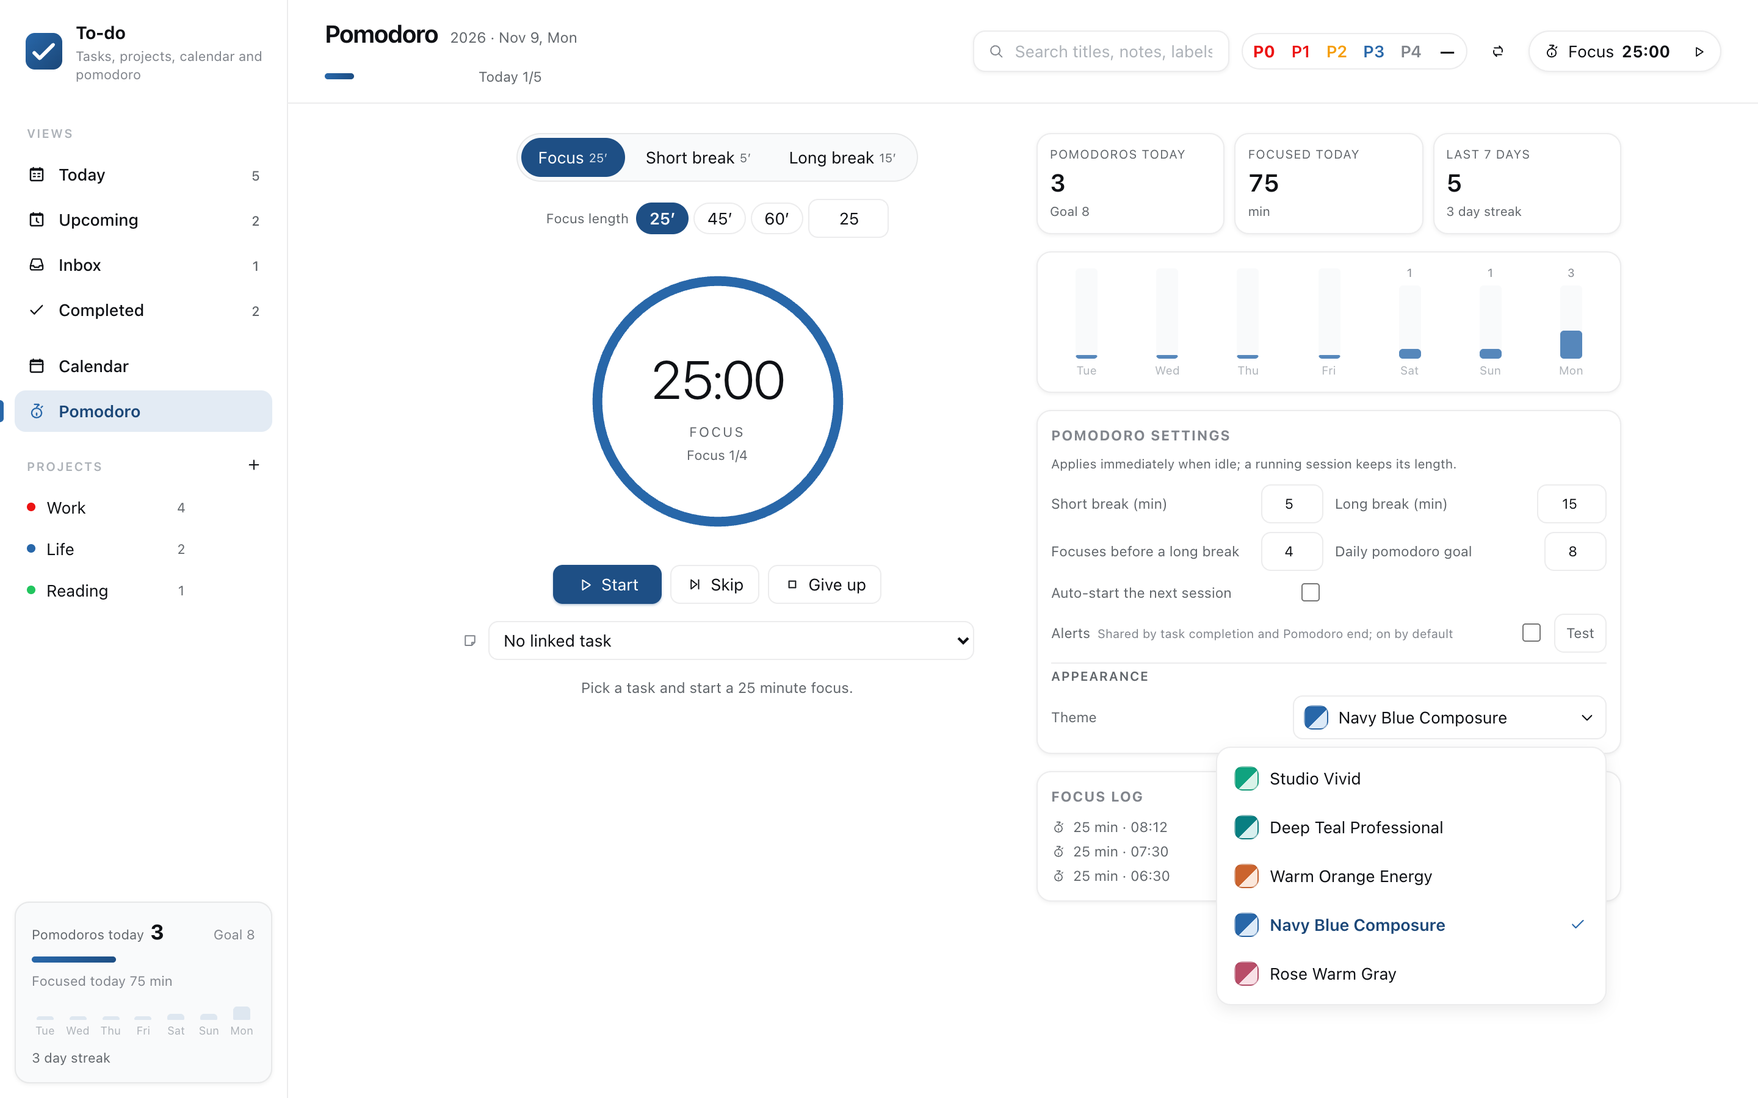
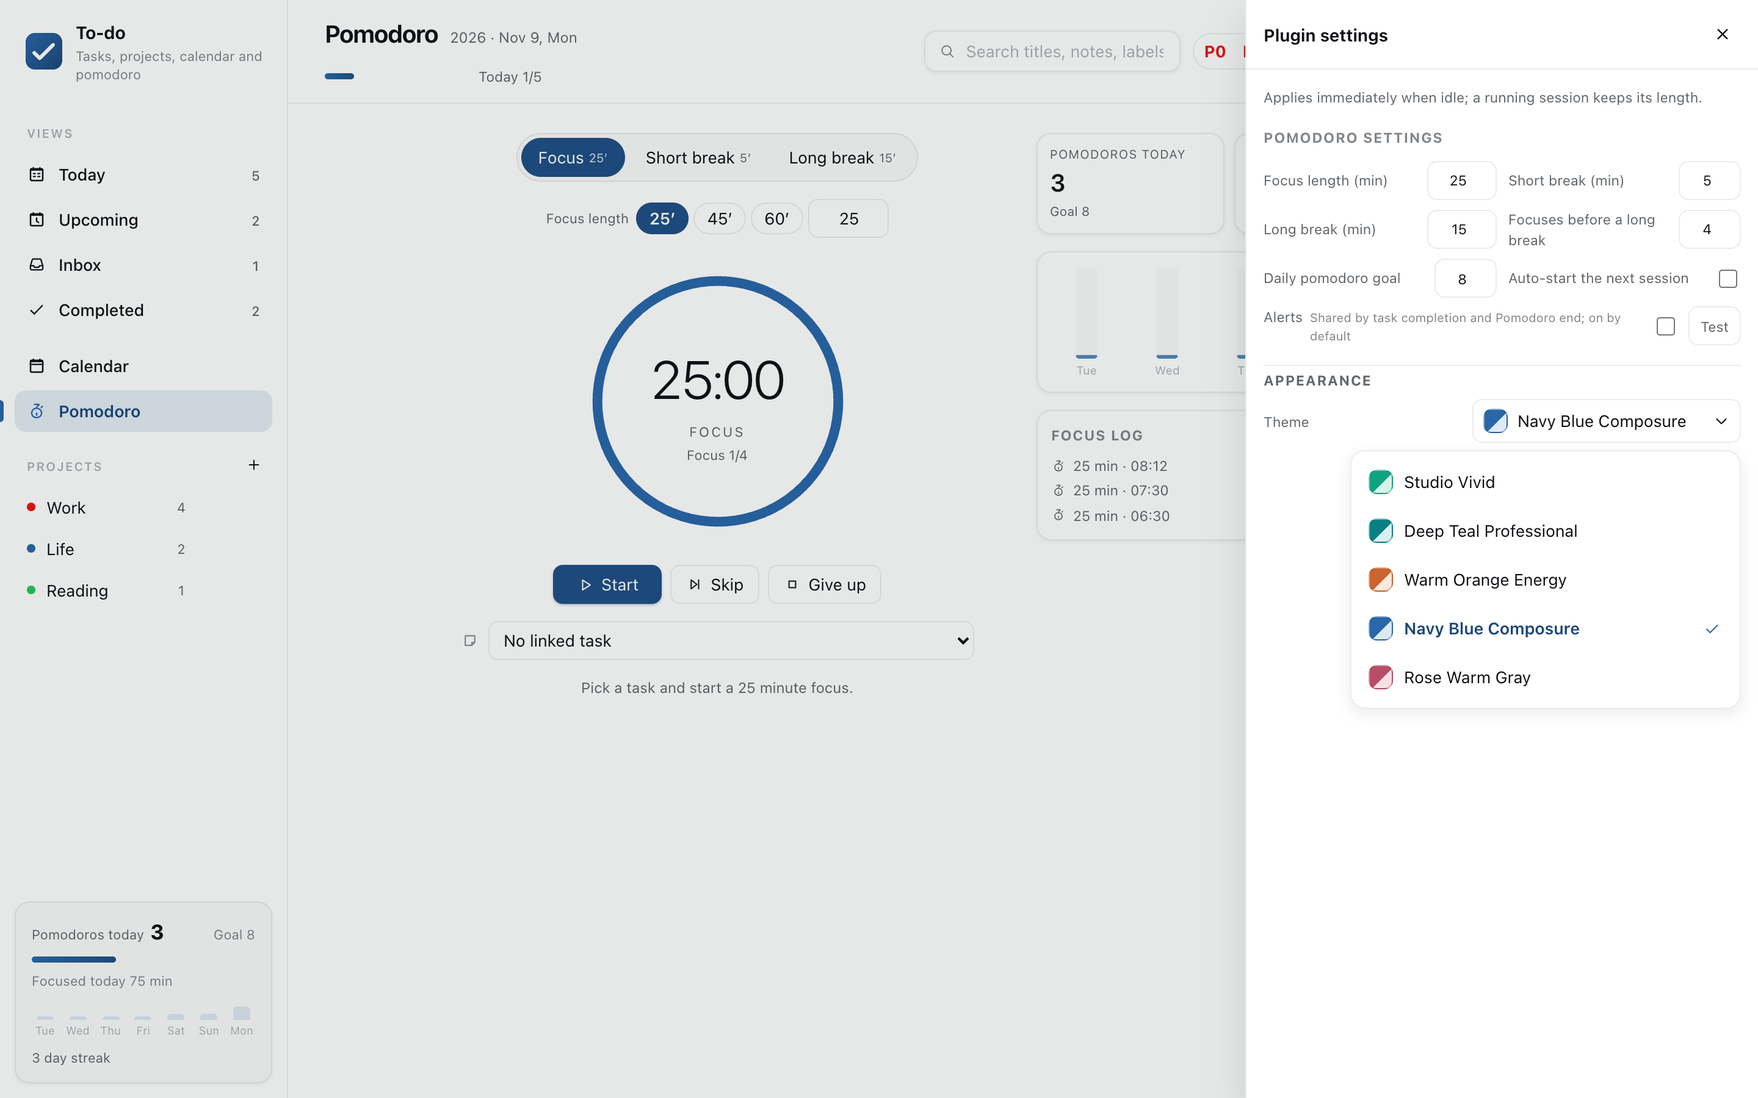
Unify Todo plugin settings

diff --git a/lib/client.js b/lib/client.js
@@ -109,6 +109,7 @@ window.__ModuleLoader__.load({
         "topbar.priorityFilter": "优先级筛选",
         "topbar.clearFilter": "清除筛选",
         "topbar.refresh": "刷新",
+        "topbar.settings": "插件设置",
         "topbar.sync": "同步中…",
         "topbar.error": "数据加载失败：{message}",
         "topbar.retry": "重试",
@@ -280,6 +281,8 @@ window.__ModuleLoader__.load({
         "project.color.grape": "紫",
         "project.color.slate": "灰",
 
+        "settings.title": "插件设置",
+        "settings.close": "关闭设置",
         "settings.focusMinutes": "专注时长（分钟）",
         "settings.shortBreakMinutes": "短休（分钟）",
         "settings.longBreakMinutes": "长休（分钟）",
@@ -414,6 +417,7 @@ window.__ModuleLoader__.load({
         "topbar.priorityFilter": "Filter by priority",
         "topbar.clearFilter": "Clear filters",
         "topbar.refresh": "Refresh",
+        "topbar.settings": "Plugin settings",
         "topbar.sync": "Syncing…",
         "topbar.error": "Could not load data: {message}",
         "topbar.retry": "Retry",
@@ -585,6 +589,8 @@ window.__ModuleLoader__.load({
         "project.color.grape": "Purple",
         "project.color.slate": "Grey",
 
+        "settings.title": "Plugin settings",
+        "settings.close": "Close settings",
         "settings.focusMinutes": "Focus length (min)",
         "settings.shortBreakMinutes": "Short break (min)",
         "settings.longBreakMinutes": "Long break (min)",
@@ -2136,6 +2142,7 @@ window.__ModuleLoader__.load({
       search: "M10.8 4.4a6.4 6.4 0 1 1 0 12.8 6.4 6.4 0 0 1 0-12.8ZM15.6 15.6 20 20",
       close: "M6.4 6.4 17.6 17.6M17.6 6.4 6.4 17.6",
       repeat: "M7 7.2h9.2l-2.4-2.4M17 16.8H7.8l2.4 2.4M16.2 7.2a4.9 4.9 0 0 1 1.4 6M7.8 16.8a4.9 4.9 0 0 1-1.4-6",
+      settings: "M12 8.4a3.6 3.6 0 1 0 0 7.2 3.6 3.6 0 0 0 0-7.2ZM19.1 13.5l1.1.9-2 3.4-1.4-.5a7.7 7.7 0 0 1-1.8 1l-.2 1.5h-4l-.3-1.5a7.7 7.7 0 0 1-1.8-1l-1.4.5-2-3.4 1.1-.9a7.6 7.6 0 0 1 0-2.1l-1.1-.9 2-3.4 1.4.5a7.7 7.7 0 0 1 1.8-1l.3-1.5h4l.2 1.5a7.7 7.7 0 0 1 1.8 1l1.4-.5 2 3.4-1.1.9a7.6 7.6 0 0 1 0 2.1Z",
       up: "M12 18.6V5.4M6.4 11 12 5.4 17.6 11",
       down: "M12 5.4v13.2M6.4 13 12 18.6 17.6 13",
       trash: "M5.6 7.4h12.8M9.6 7.4V5.2h4.8v2.2M7.4 7.4l.8 11.4h7.6l.8-11.4M10.4 10.6v5.4M13.6 10.6v5.4",
@@ -3326,6 +3333,17 @@ window.__ModuleLoader__.load({
             "button",
             {
               type: "button",
+              className: "todo-icon-btn todo-open-settings",
+              onClick: ui.onOpenSettings,
+              title: t("topbar.settings"),
+              "aria-label": t("topbar.settings"),
+            },
+            h(Icon, { name: "settings", size: 15 }),
+          ),
+          h(
+            "button",
+            {
+              type: "button",
               className: "todo-icon-btn todo-refresh",
               onClick: ui.onRefresh,
               title: t("topbar.refresh"),
@@ -4053,6 +4071,78 @@ window.__ModuleLoader__.load({
       );
     }
 
+    function PluginSettingsDrawer(props) {
+      const { settings, ui, onClose } = props;
+      useEffect(() => {
+        const closeOnEscape = (event) => {
+          if (event.key === "Escape") onClose();
+        };
+        window.addEventListener("keydown", closeOnEscape);
+        return () => window.removeEventListener("keydown", closeOnEscape);
+      }, [onClose]);
+
+      return h(
+        "div",
+        { className: "todo-settings-overlay", role: "presentation", onMouseDown: (event) => event.target === event.currentTarget && onClose() },
+        h(
+          "section",
+          { className: "todo-settings-drawer", role: "dialog", "aria-modal": "true", "aria-labelledby": "todo-plugin-settings-title" },
+          h(
+            "header",
+            { className: "todo-settings-drawer-head" },
+            h("h2", { id: "todo-plugin-settings-title" }, t("settings.title")),
+            h(
+              "button",
+              { type: "button", className: "todo-icon-btn", onClick: onClose, "aria-label": t("settings.close") },
+              h(Icon, { name: "close", size: 16 }),
+            ),
+          ),
+          h(
+            "div",
+            { className: "todo-settings-drawer-body" },
+            h("p", { className: "todo-settings-drawer-hint" }, t("pom.settingsHint")),
+            h(
+              "section",
+              { className: "todo-settings-section" },
+              h("h3", null, t("pom.settings")),
+              h(
+                "div",
+                { className: "todo-settings-grid" },
+                h(SettingNumber, { label: t("settings.focusMinutes"), value: settings.focusMinutes, min: 1, max: 180, onChange: (value) => ui.onSettings({ focusMinutes: value }) }),
+                h(SettingNumber, { label: t("settings.shortBreakMinutes"), value: settings.shortBreakMinutes, min: 1, max: 60, onChange: (value) => ui.onSettings({ shortBreakMinutes: value }) }),
+                h(SettingNumber, { label: t("settings.longBreakMinutes"), value: settings.longBreakMinutes, min: 1, max: 120, onChange: (value) => ui.onSettings({ longBreakMinutes: value }) }),
+                h(SettingNumber, { label: t("settings.longBreakEvery"), value: settings.longBreakEvery, min: 2, max: 12, onChange: (value) => ui.onSettings({ longBreakEvery: value }) }),
+                h(SettingNumber, { label: t("settings.dailyGoal"), value: settings.dailyGoal, min: 1, max: 40, onChange: (value) => ui.onSettings({ dailyGoal: value }) }),
+                h(
+                  "label",
+                  { className: "todo-setting todo-setting-toggle" },
+                  h("span", null, t("settings.autoStartNext")),
+                  h("input", { type: "checkbox", checked: Boolean(settings.autoStartNext), onChange: (event) => ui.onSettings({ autoStartNext: event.target.checked }) }),
+                ),
+                h(
+                  "label",
+                  { className: "todo-setting todo-setting-toggle todo-setting-sound" },
+                  h("span", { className: "todo-setting-text" }, t("settings.sound"), h("em", { className: "todo-setting-hint" }, t("settings.soundHint"))),
+                  h(
+                    "span",
+                    { className: "todo-setting-actions" },
+                    h("input", { type: "checkbox", checked: settings.sound === true, onChange: (event) => ui.onSettings({ sound: event.target.checked }) }),
+                    h("button", { type: "button", className: "todo-btn todo-btn-sm todo-btn-ghost", onClick: playChime }, t("settings.soundTest")),
+                  ),
+                ),
+              ),
+            ),
+            h(
+              "section",
+              { className: "todo-settings-section todo-settings-appearance" },
+              h("h3", null, t("settings.appearance")),
+              h(ThemePicker, { settings, ui }),
+            ),
+          ),
+        ),
+      );
+    }
+
     function PomodoroView(props) {
       const { tasks, projects, today, settings, sessions, ui } = props;
       const [, force] = useState(0);
@@ -4230,67 +4320,6 @@ window.__ModuleLoader__.load({
                 h(PomodoroBarColumn, { day, goal: stats.goal }),
                 h("span", { className: "todo-pom-bar-day" }, t(`weekday.${weekdayOf(day.date)}`)),
               ),
-            ),
-          ),
-          h(
-            "section",
-            { className: "todo-pom-settings" },
-            h("h3", null, t("pom.settings")),
-            h("p", { className: "todo-pom-settings-hint" }, t("pom.settingsHint")),
-            h(
-              "div",
-              { className: "todo-settings-grid" },
-              h(SettingNumber, { label: t("settings.shortBreakMinutes"), value: settings.shortBreakMinutes, min: 1, max: 60, onChange: (value) => ui.onSettings({ shortBreakMinutes: value }) }),
-              h(SettingNumber, { label: t("settings.longBreakMinutes"), value: settings.longBreakMinutes, min: 1, max: 120, onChange: (value) => ui.onSettings({ longBreakMinutes: value }) }),
-              h(SettingNumber, { label: t("settings.longBreakEvery"), value: settings.longBreakEvery, min: 2, max: 12, onChange: (value) => ui.onSettings({ longBreakEvery: value }) }),
-              h(SettingNumber, { label: t("settings.dailyGoal"), value: settings.dailyGoal, min: 1, max: 40, onChange: (value) => ui.onSettings({ dailyGoal: value }) }),
-              h(
-                "label",
-                { className: "todo-setting todo-setting-toggle" },
-                h("span", null, t("settings.autoStartNext")),
-                h("input", {
-                  type: "checkbox",
-                  checked: Boolean(settings.autoStartNext),
-                  onChange: (event) => ui.onSettings({ autoStartNext: event.target.checked }),
-                }),
-              ),
-              h(
-                "label",
-                { className: "todo-setting todo-setting-toggle todo-setting-sound" },
-                h(
-                  "span",
-                  { className: "todo-setting-text" },
-                  t("settings.sound"),
-                  h("em", { className: "todo-setting-hint" }, t("settings.soundHint")),
-                ),
-                h(
-                  "span",
-                  { className: "todo-setting-actions" },
-                  h("input", {
-                    type: "checkbox",
-                    checked: settings.sound === true,
-                    onChange: (event) => ui.onSettings({ sound: event.target.checked }),
-                  }),
-                  h(
-                    "button",
-                    {
-                      type: "button",
-                      className: "todo-btn todo-btn-sm todo-btn-ghost",
-                      onClick: (event) => {
-                        event.preventDefault();
-                        playChime();
-                      },
-                    },
-                    t("settings.soundTest"),
-                  ),
-                ),
-              ),
-            ),
-            h(
-              "div",
-              { className: "todo-settings-appearance" },
-              h("h4", null, t("settings.appearance")),
-              h(ThemePicker, { settings, ui }),
             ),
           ),
           h(
@@ -4695,6 +4724,7 @@ window.__ModuleLoader__.load({
       const [query, setQuery] = useState("");
       const [priorities, setPriorities] = useState([]);
       const [detailTask, setDetailTask] = useState(null);
+      const [settingsOpen, setSettingsOpen] = useState(false);
       const [calendarMonth, setCalendarMonth] = useState(monthKeyOf(today));
       const [selectedDate, setSelectedDate] = useState(today);
 
@@ -4842,6 +4872,7 @@ window.__ModuleLoader__.load({
         },
         onSettings: (changes) => dataStore.updateSettings(changes),
         onTheme: (theme) => dataStore.updateTheme(theme),
+        onOpenSettings: () => setSettingsOpen(true),
         onRefresh: () => dataStore.load(),
         onTogglePomodoro: () => {
           requestNotifyPermission();
@@ -4978,6 +5009,7 @@ window.__ModuleLoader__.load({
               ui,
             })
           : null,
+        settingsOpen ? h(PluginSettingsDrawer, { settings: state.settings, ui, onClose: () => setSettingsOpen(false) }) : null,
         h(ToastView, { toast, onDismiss: dataStore.dismissToast, onPause: dataStore.pauseToast, onResume: dataStore.resumeToast }),
       );
     }
@@ -5539,6 +5571,12 @@ window.__ModuleLoader__.load({
 .todo-drawer-pom > div { display: flex; flex-direction: column; gap: 2px; }
 .todo-drawer-meta { margin: 0; font-size: 10.5px; color: var(--dsw-alias-label-caption); }
 .todo-drawer-foot { flex: none; padding: 10px 14px; border-top: 1px solid var(--dsw-alias-border-l1); }
+.todo-settings-overlay { position: absolute; inset: 0; z-index: 32; display: flex; justify-content: flex-end; background: color-mix(in oklab, var(--dsw-alias-label-primary) 10%, transparent); }
+.todo-settings-drawer { display: flex; flex-direction: column; width: min(420px, 100%); height: 100%; background: var(--dsw-alias-bg-layer-1); border-left: 1px solid var(--dsw-alias-border-l1); box-shadow: var(--dsw-shadow-lv3); animation: todo-slide-in 160ms ease; }
+.todo-settings-drawer-head { display: flex; align-items: center; justify-content: space-between; gap: 8px; padding: 13px 14px; border-bottom: 1px solid var(--dsw-alias-border-l1); }
+.todo-settings-drawer-head h2 { margin: 0; font-size: 14px; font-weight: 650; }
+.todo-settings-drawer-body { display: flex; flex: 1; min-height: 0; overflow-y: auto; flex-direction: column; gap: 16px; padding: 14px; }
+.todo-settings-section { display: flex; flex-direction: column; gap: 10px; }
 
 /* ---------- 番茄钟视图 ---------- */
 .todo-pom { display: grid; grid-template-columns: minmax(0, 1fr) minmax(0, 1fr); gap: 22px; max-width: 980px; margin: 0 auto; align-items: start; }
@@ -5600,13 +5638,13 @@ window.__ModuleLoader__.load({
 .todo-pom-bar-track { flex: 1; display: flex; align-items: flex-end; width: 100%; max-width: 18px; border-radius: 3px; background: var(--dsw-alias-bg-layer-2); overflow: hidden; }
 .todo-pom-bar-fill { width: 100%; border-radius: 3px; background: color-mix(in oklab, var(--todo-danger) 78%, transparent); }
 .todo-pom-bar-day { font-size: 9.5px; color: var(--dsw-alias-label-caption); }
-.todo-pom-settings, .todo-pom-log {
+.todo-pom-log {
   display: flex; flex-direction: column; gap: 8px; padding: 11px;
   border-radius: var(--dsw-radius-md); background: var(--dsw-alias-bg-layer-1);
   border: 1px solid var(--dsw-alias-border-l1);
 }
-.todo-pom-settings h3, .todo-pom-log h3 { margin: 0; font-size: 11.5px; letter-spacing: 0.07em; text-transform: uppercase; color: var(--dsw-alias-label-tertiary); }
-.todo-pom-settings-hint { margin: 0; font-size: 10.5px; color: var(--dsw-alias-label-caption); }
+.todo-pom-log h3, .todo-settings-section h3 { margin: 0; font-size: 11.5px; letter-spacing: 0.07em; text-transform: uppercase; color: var(--dsw-alias-label-tertiary); }
+.todo-settings-drawer-hint { margin: 0; font-size: 11.5px; color: var(--dsw-alias-label-secondary); }
 .todo-settings-grid { display: grid; grid-template-columns: repeat(auto-fit, minmax(150px, 1fr)); gap: 7px 10px; }
 .todo-setting { display: flex; align-items: center; justify-content: space-between; gap: 8px; font-size: 11.5px; color: var(--dsw-alias-label-secondary); }
 .todo-setting .todo-input { width: auto; }
@@ -5617,7 +5655,7 @@ window.__ModuleLoader__.load({
 .todo-setting-actions { display: inline-flex; align-items: center; gap: 8px; flex: none; }
 .todo-setting-actions .todo-btn { white-space: nowrap; }
 .todo-settings-appearance { display: flex; flex-direction: column; gap: 7px; padding-top: 3px; border-top: 1px solid var(--dsw-alias-border-l1); }
-.todo-settings-appearance h4 { margin: 0; font-size: 10.5px; font-weight: 600; letter-spacing: 0.07em; text-transform: uppercase; color: var(--dsw-alias-label-secondary); }
+.todo-settings-appearance h3 { color: var(--dsw-alias-label-secondary); }
 .todo-theme-picker { position: relative; display: grid; grid-template-columns: minmax(0, 1fr) minmax(0, 1.35fr); align-items: center; gap: 8px; }
 .todo-theme-label { min-width: 0; font-size: 11.5px; color: var(--dsw-alias-label-secondary); }
 .todo-theme-trigger, .todo-theme-option { border: 1px solid var(--dsw-alias-border-l1); background: var(--dsw-alias-bg-base); color: var(--dsw-alias-label-primary); cursor: pointer; }
@@ -5738,8 +5776,10 @@ window.__ModuleLoader__.load({
   .todo-search { order: 1; flex: 1 1 100%; min-width: 0; width: auto; }
   .todo-view-select { order: 2; flex: 1 1 auto; min-width: 0; width: auto; }
   .todo-capsule { order: 3; flex: none; margin-left: auto; }
-  .todo-refresh { order: 4; flex: none; }
+  .todo-open-settings, .todo-refresh { order: 4; flex: none; }
   .todo-filters { order: 5; flex: 1 1 100%; overflow-x: auto; padding-bottom: 2px; }
+  .todo-settings-drawer { width: 100%; }
+  .todo-settings-drawer-body { padding: 14px; }
   .todo-progress-track { width: 60px; }
   .todo-pom-time { font-size: 32px; }
   .todo-stat-grid { grid-template-columns: repeat(2, minmax(0, 1fr)); }

diff --git a/test/client-i18n.test.js b/test/client-i18n.test.js
@@ -634,6 +634,18 @@ test("样式只用 --dsw-* token，字面色值只允许集中在 brand-palette"
   assert.equal(/data-ds-dark-theme/.test(outside), false, "暗色分支只应出现在 brand-palette 内");
 });
 
+test("插件设置从顶栏统一打开，不在番茄钟视图重复", () => {
+  assert.match(SOURCE, /function PluginSettingsDrawer\(props\)/, "需要统一设置面板组件");
+  assert.match(SOURCE, /className: "todo-icon-btn todo-open-settings"/, "顶栏必须提供设置入口");
+  assert.match(SOURCE, /onClick: ui\.onOpenSettings/, "顶栏设置入口必须可打开面板");
+  assert.match(SOURCE, /settingsOpen \? h\(PluginSettingsDrawer/, "根节点需要渲染统一设置面板");
+  assert.match(SOURCE, /role: "dialog"/, "设置面板必须声明对话框语义");
+  assert.match(SOURCE, /closeOnEscape/, "设置面板必须支持 Escape 关闭");
+  const pomodoroStart = SOURCE.indexOf("function PomodoroView(props)");
+  const pomodoroEnd = SOURCE.indexOf("function SettingNumber", pomodoroStart);
+  assert.equal(SOURCE.slice(pomodoroStart, pomodoroEnd).includes("todo-pom-settings"), false, "番茄钟视图不应重复设置控件");
+});
+
 test("主题选择器提供五个持久化主题与无障碍键盘交互", () => {
   withPlugin({}, (env) => {
     const { THEMES, resolveThemeId } = env.exports.__preview.__internal;

diff --git a/README.md b/README.md
@@ -46,7 +46,7 @@ An unstarted focus stays quiet; a short or long break shows as soon as it become
 ![Pomodoro View](./preview/screenshots/pomodoro.png)
 
 ### Theme picker
-Choose a theme from the single **Pomodoro settings → Appearance → Theme** control. It applies immediately, persists locally, supports keyboard navigation, and follows the host light or dark mode.
+Use the top-right **Plugin settings → Appearance → Theme** control. It applies immediately, persists locally, supports keyboard navigation, and follows the host light or dark mode.
 
 ![Theme picker in Chinese](./preview/screenshots/theme-switcher.png)
 
@@ -77,7 +77,7 @@ Choose a theme from the single **Pomodoro settings → Appearance → Theme** co
 - **Conversation-header timer**: A compact timer sits at the top right of every session — idle shows the configured focus length, running shows the countdown with the bound task and pause/skip controls. The sidebar icon mirrors the countdown as mm:ss, labelled with the mode while on a break.
 - **Persistent Countdown**: Timer state is preserved in browser storage (`localStorage`) with absolute timestamps, surviving page refreshes without drifting.
 - **Audio & Visual Alerts**: One Alerts setting, enabled by default for new users, covers both task completion and Pomodoro endings. Task completion uses a brief ascending two-note confirmation; Pomodoro keeps its three-note chime. Existing saved choices remain unchanged, and the Test button plays the Pomodoro chime immediately.
-- **Theme picker**: Pomodoro settings includes one Appearance control for five locally persisted themes. Studio Vivid green is the default; the picker works with keyboard navigation, click-outside dismissal, and host light/dark mode.
+- **Plugin settings & themes**: One top-right Plugin settings panel contains Pomodoro timings, alerts, goals, and the single Appearance control for five locally persisted themes. Studio Vivid green is the default; the picker works with keyboard navigation, click-outside dismissal, and host light/dark mode.
 - **Statistics**: Today's Pomodoros vs daily goal, focus minutes, cumulative totals, current streak (in days), and a 7-day bar chart.
 
 ### Keyboard shortcuts

diff --git a/docs/plan-theme-switcher.md b/docs/plan-theme-switcher.md
@@ -10,9 +10,10 @@
 
 1. 在 `lib/client.js` 定义单一 `THEMES` 注册表：五个稳定 id、中文/英文名称、描述、亮暗色令牌和预览色。
 2. 由根节点的 `data-todo-theme` 属性映射主题令牌；宿主侧边栏所用 `--dsh-todo-*` 变量从同一来源同步，避免出现面板与会话顶栏不同色。
-3. 在现有番茄设置面板顶部实现「外观 → 主题」选择器。选择后调用既有 `ui.onSettings({ theme })`，乐观更新后保存失败则回退并沿用现有错误反馈。
-4. 实现弹层的焦点管理、方向键、Enter/Space、Esc、点击外部关闭，以及窄屏全宽布局。
-5. 补齐中英文文案与可访问名称；不增加第二个主题入口。
+3. 在主面板右上角实现唯一的「插件设置」入口与右侧统一设置面板，将番茄时长、自动开始、提示音、每日目标和「外观 → 主题」集中呈现；番茄钟视图不再重复设置控件。
+4. 主题选择后调用既有 `ui.onSettings({ theme })`，乐观更新后保存失败则回退并沿用现有错误反馈；统一设置面板支持 Escape 与点击遮罩关闭。
+5. 实现主题弹层的焦点管理、方向键、Enter/Space、Esc、点击外部关闭，以及窄屏全宽布局。
+6. 补齐中英文文案与可访问名称；不增加第二个主题或设置入口。
 
 ## 验证与发布
 

diff --git a/docs/design-theme-switcher.md b/docs/design-theme-switcher.md
@@ -6,7 +6,7 @@
 
 ## 入口与交互
 
-在现有番茄钟右侧的「番茄设置」面板顶部新增一个独立的「外观」小节。该小节只有一行「主题」控件：按钮显示当前主题的小型三色样本、名称和下拉箭头。
+在插件主面板右上角新增唯一的「插件设置」入口，点击后从右侧打开统一设置面板。主题位于面板的「外观」小节；番茄时长、自动开始、提示音和每日目标也收敛到同一面板，因此不再在番茄钟视图重复提供设置控件。主题按钮显示当前主题的小型三色样本、名称和下拉箭头。
 
 点击按钮后在原位置弹出 320px 宽的主题选择器，包含五个等高选项：
 
